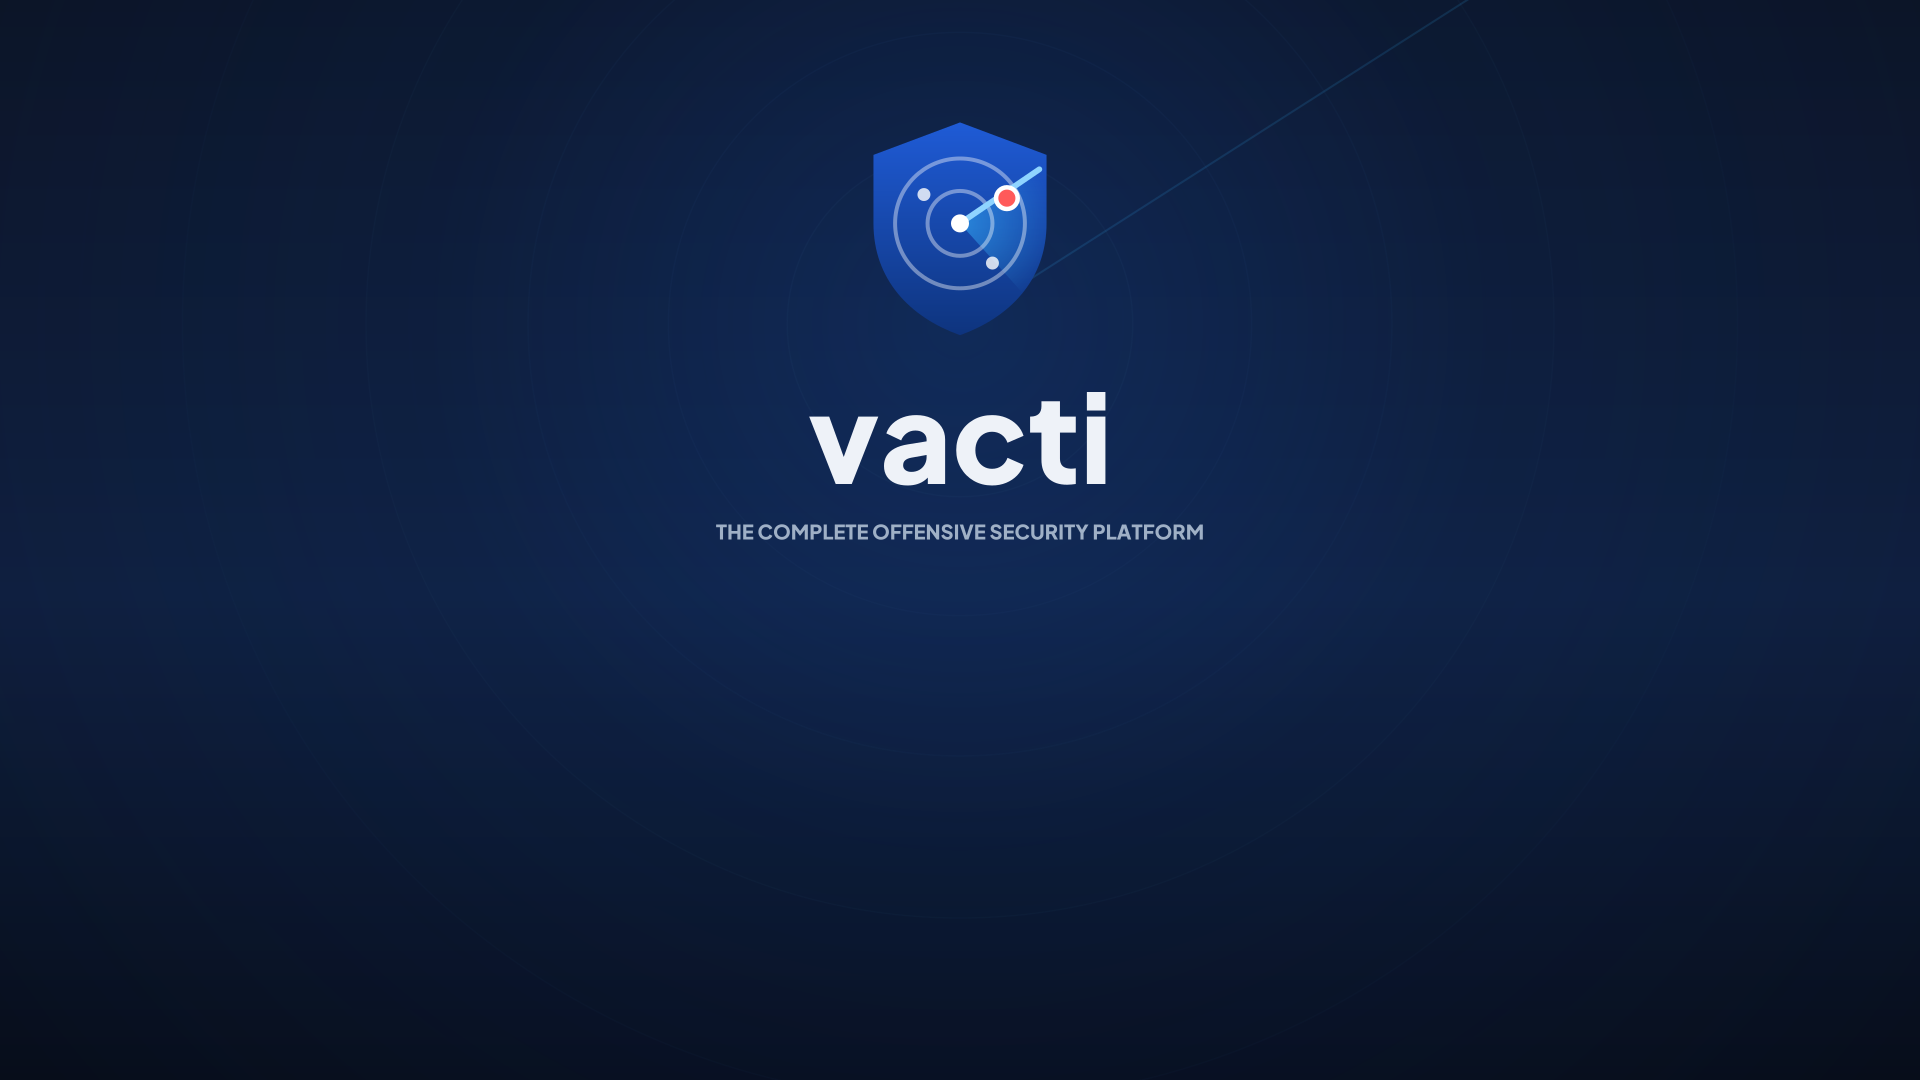
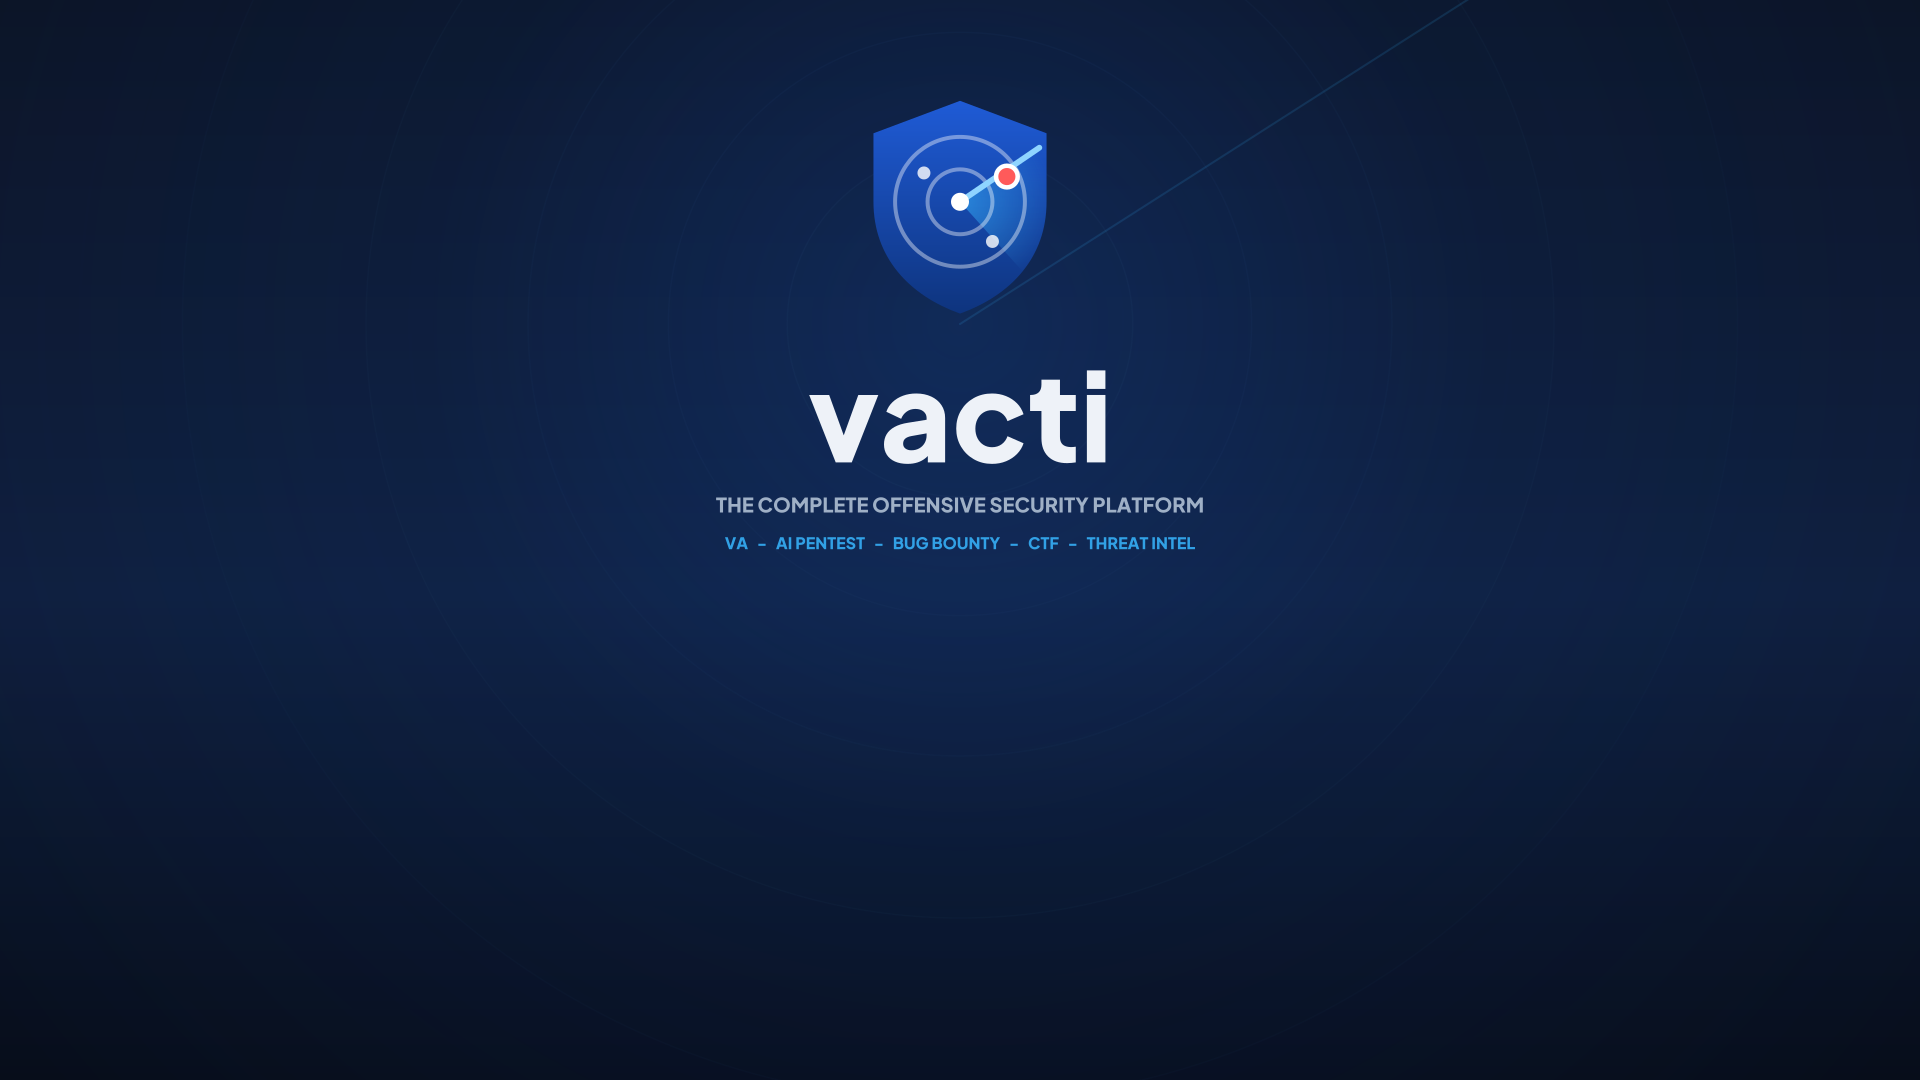
fix(branding): capability line add VA, drop Leaks
Operator curation of the capability line. Final string, applied to every
surface that carries it:

  VA  -  AI Pentest  -  Bug Bounty  -  CTF  -  Threat Intel

The tagline "The complete offensive security platform" is unchanged.

Changed:
- console/vacti-motd (dynamic MOTD capability line)
- fastfetch/config.jsonc (SSH subtitle)
- issue, issue.net, motd (static console banners)
- os-release description comment (+ includes.chroot mirror); HOME_URL and
  SUPPORT_URL unchanged
- Calamares show.qml slideshow line
- wallpaper SVGs (1920x1080, 2560x1440) and greeter SVG: the capability line
  now sits as one short cyan line under the tagline; PNGs re-rendered via
  render-assets.sh (byte-reproducible)
- greeter conf: login box nudged from 62% to 66% so it clears the new line

No em/en dashes. Lint clean. No OVA/ISO build triggered.

Changed region(s): [[0.375, 0.3361, 0.625, 0.5194], [0.4375, 0.0917, 0.5625, 0.3056]]

diff --git a/distro/live-build-config/calamares/branding/vacti/show.qml b/distro/live-build-config/calamares/branding/vacti/show.qml
@@ -44,7 +44,7 @@ Presentation {
                 width: parent.width * 0.7
                 horizontalAlignment: Text.AlignHCenter
                 wrapMode: Text.WordWrap
-                text: "AI Pentest   -   Bug Bounty   -   CTF   -   Threat Intel   -   Leaks"
+                text: "VA   -   AI Pentest   -   Bug Bounty   -   CTF   -   Threat Intel"
                 color: "#37B6FF"
                 font.pixelSize: 22
             }
